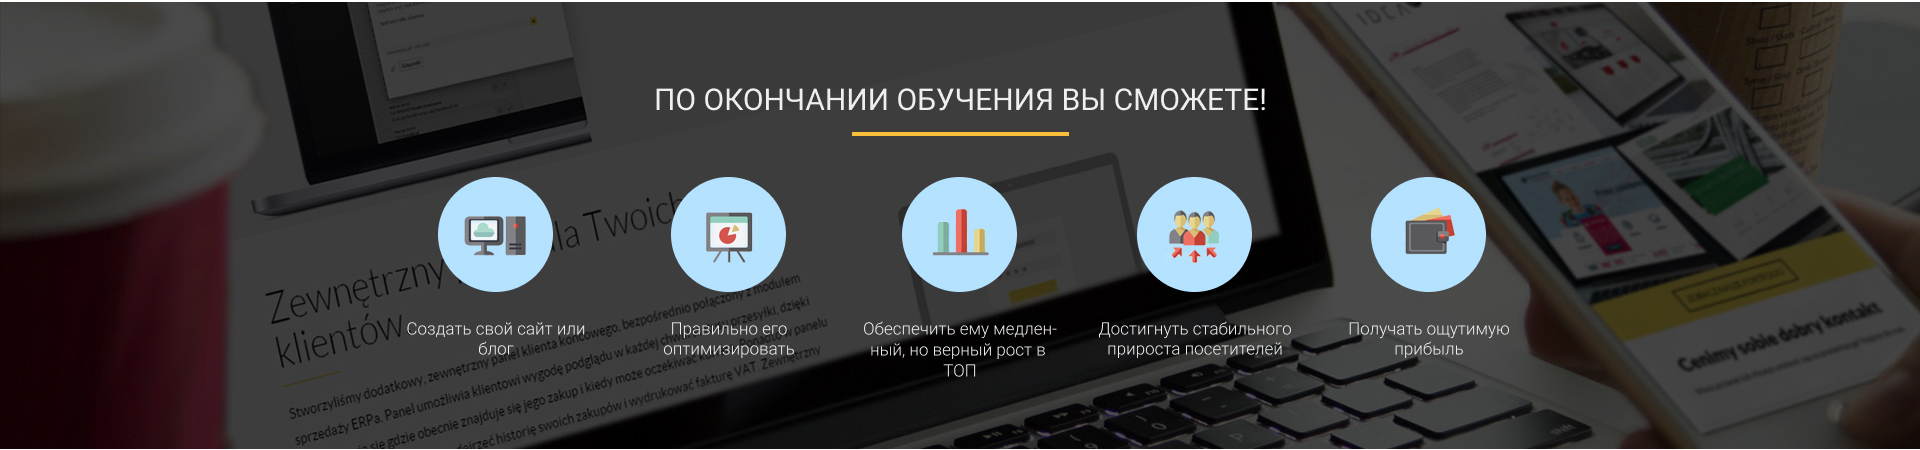
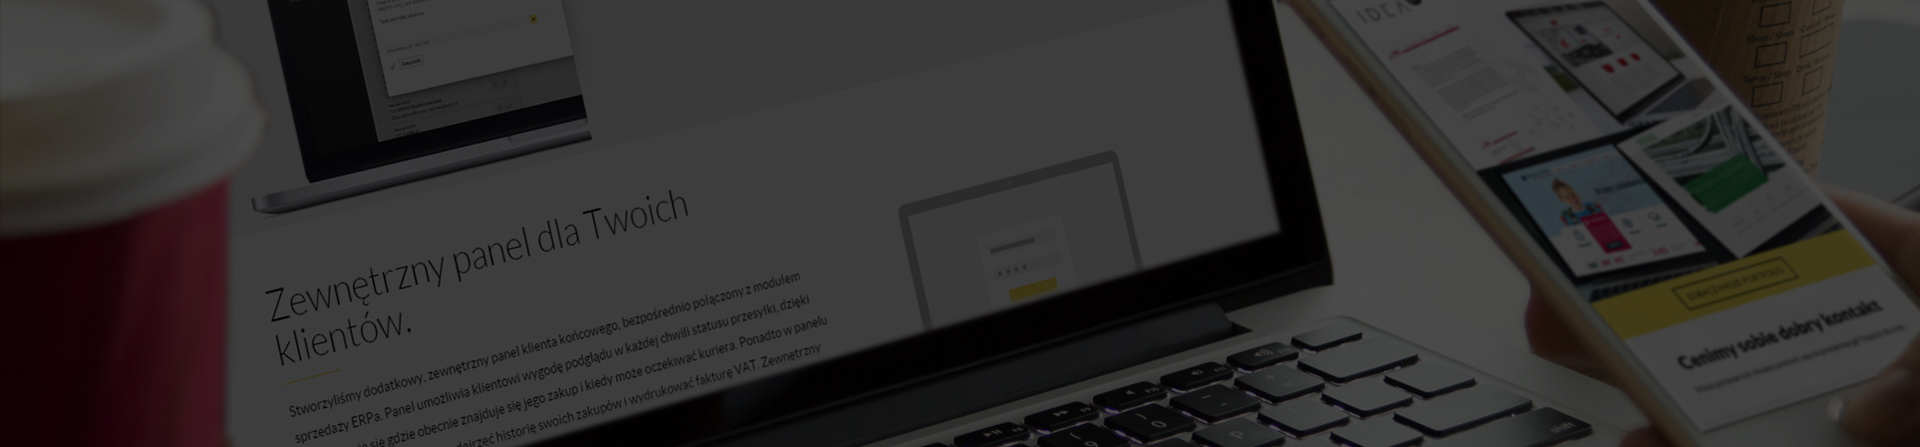
Учебный макет готов!!!
Вёрстка сайта закончена, макет был всёрстан на чистом Html and Css
Пока многое не понятно и есть что повторить 
Процесс идёт
Практика, Практика и ещё раз Практика  ;-)

diff --git a/index.html b/index.html
@@ -67,5 +67,113 @@
         </div>
       </div>
     </section>
+    <section class="optimization">
+      <div class="container">
+        <h2 class="optimization_header">
+          Что такое оптимизация и зачем она нужна?
+        </h2>
+        <div class="optimization_text">
+          На просторах интернета несчетное количество действующих и даже
+          заброшенных сайтов. Большинство из них совпадает не только по
+          категориям, но и по содержанию.
+          <br /><br />
+          Представьте себе тысячи сайтов, на которых тем или иным образом
+          предоставляется одна и та же информация или продается одна и та же
+          услуга. И попасть на эти сайты можно лишь по тематическим запросам в
+          поисковых системах.
+          <br /><br />
+          Но как вам быть, если ваш сайт похож на сотню или тысячу таких же, а
+          на одной странице гугла или яндекса всего 10 позиций? Как привести
+          посетителей страницы своего ресурса? Именно для этого и нужна
+          оптимизация – для вывода вашего сайта на первую страницу поиска!
+          <br /><br />
+          <span
+            >Мы научим вас, как сделать ваш сайт привлекательным для поисковых
+            систем и посоветуем, как вывести его на первые страницы, обходя всех
+            конкурентов.</span
+          >
+        </div>
+        <img src="img/bg/woman_bg.jpg" alt="woman" class="optimization_img" />
+      </div>
+    </section>
+    <section class="finish">
+      <div class="container">
+        <h2 class="finish_header">По окончании обучения Вы сможете!</h2>
+        <div class="finish_divider"></div>
+        <div class="finish_wrapper">
+          <div class="finish_item">
+            <div class="finish_round">
+              <img src="icons/finish/1.png" alt="1" class="finish_icon" />
+            </div>
+            <div class="finish_descr">Создать свой сайт или блог</div>
+          </div>
+          <div class="finish_item">
+            <div class="finish_round">
+              <img src="icons/finish/2.png" alt="2" class="finish_icon" />
+            </div>
+            <div class="finish_descr">Правильно его оптимизировать</div>
+          </div>
+          <div class="finish_item">
+            <div class="finish_round">
+              <img src="icons/finish/3.png" alt="3" class="finish_icon" />
+            </div>
+            <div class="finish_descr">
+              Обеспечить ему медлен- ный, но верный рост в ТОП
+            </div>
+          </div>
+          <div class="finish_item">
+            <div class="finish_round">
+              <img src="icons/finish/4.png" alt="4" class="finish_icon" />
+            </div>
+            <div class="finish_descr">
+              Достигнуть стабильного прироста посетителей
+            </div>
+          </div>
+          <div class="finish_item">
+            <div class="finish_round">
+              <img src="icons/finish/5.png" alt="5" class="finish_icon" />
+            </div>
+            <div class="finish_descr">Получать ощутимую прибыль</div>
+          </div>
+        </div>
+      </div>
+    </section>
+    <section class="gift">
+      <div class="container">
+        <img src="icons/gift.png" alt="" class="gift_item" />
+        <div class="gift_text">
+          Для всех участников интенсива предусмотрены бонусы и подарки.
+          Нажимайте на кнопку ниже, принимайте участие в вебинарах и забирайте
+          свой приз по окончании обучения!
+        </div>
+        <button class="gift_btn">Записаться на интенсив!</button>
+      </div>
+    </section>
+    <section class="webinar">
+      <div class="container">
+        <img
+          src="img/first_webinar/first_webinar.png"
+          alt="webinar"
+          class="webinar-img"
+        />
+        <h2 class="webinar_header">Первый вебинар состоится:</h2>
+        <div class="webinar_date">10 сентября в 20:00 по Москве</div>
+        <p class="webinar_text">
+          Успейте записаться, количество мест ограничено!
+        </p>
+      </div>
+    </section>
+    <footer class="footer">
+      <div class="container">
+        <a href="#" class="footer_feedback"
+          >Служба поддержки | Политика конфиденциальности
+        </a>
+        <div class="footer_call">
+          <a href="tel:88005550121" class="phone"
+            >Позвоните нам 8-800-555-01-21</a
+          >
+        </div>
+      </div>
+    </footer>
   </body>
 </html>

diff --git a/css/style.css b/css/style.css
@@ -5,6 +5,7 @@
 }
 
 .container {
+  position: relative;
   width: 1140px;
   margin: 0 auto;
 }
@@ -67,7 +68,7 @@ h2.title {
   font-family: "Roboto - Bold";
   font-weight: 700;
 }
-.promo .promo_btn {
+.promo .promo_btn, .gift .gift_btn {
   display: block;
   margin: 0px auto;
   margin-top: 73px;
@@ -103,11 +104,11 @@ h2.title {
   margin-top: 13px;
 }
 .waiting {
-  height: 604px;
+  min-height: 604px;
   background: #EFEFEF;
   padding: 85px 0 75px 0;
 }
-.waiting .waiting_header {
+.waiting .waiting_header, .finish .finish_header {
   color: #252525;
   font-family: 'Roboto';
   font-size: 30px;
@@ -115,7 +116,10 @@ h2.title {
   text-transform: uppercase;
   text-align: center;
 }
-.waiting .waiting_divider {
+.finish .finish_header {
+  color: #EFEFEF;
+}
+.waiting .waiting_divider, .finish .finish_divider {
   width: 217px;
   height: 4px;
   background-color: #F9BF3B;
@@ -130,12 +134,11 @@ h2.title {
   text-align: center;
 }
 .waiting .waiting_wrapper {
+  display: flex;
+  justify-content: space-between; 
   margin-top: 45px;
 }
 .waiting .waiting_wrapper .waiting_item {
-  display: inline-block;
-  vertical-align: top;
-  margin: 0 15px;
   width: 339px;
   text-align: center;
 }
@@ -150,6 +153,143 @@ h2.title {
   font-weight: 300;
   line-height: 21px;
 }
+.optimization {
+  min-height: 550px;
+  padding: 102px 0 107px 0;
+}
+.optimization .optimization_header {
+  margin-left: 391px;
+  color: #299CBD;
+  font-family: 'Roboto - Black';
+  font-size: 29px;
+
+  font-weight: 400;
+  text-transform: uppercase;
+}
+.optimization .optimization_text {
+  margin-top: 25px;
+  margin-left: 391px;
+  color: #4A4A4A;
+  font-size: 17px;
+  font-weight: 300;
+  line-height: 27px;
+  font-family: 'Roboto Light';
+  font-weight: 300;
+}
+.optimization .optimization_text span {
+  font-family: 'Roboto - Bold';
+  font-weight: 700;
+}
+.optimization .optimization_img {
+  position: absolute;
+  top: -54px;
+  left: -240px;
+  z-index: -1;
+}
+.finish {
+  min-height: 447px;
+  padding: 86px 0 79px 0;
+  background: url('../img/bg/second_bg.jpg') center center/cover no-repeat;
+}
+.finish .finish_wrapper {
+  margin-top: 41px;
+  display: flex;
+  justify-content: space-between;
+}
+.finish .finish_wrapper .finish_item {
+  width: 204px;
+}
+.finish .finish_wrapper .finish_item .finish_round {
+  display: flex;
+  justify-content: center;
+  align-items: center;
+  margin: 0 auto;
+  width: 115px;
+  height: 115px;
+  background-color: #B4E2FF;
+  border-radius: 100%;
+}
+.finish .finish_wrapper .finish_item .finish_descr {
+  margin-top: 25p;
+  text-align: center;
+  color: #EFEFEF;
+  font-family: 'Roboto';
+  font-size: 17px;
+  font-weight: 300;
+  line-height: 20px;
+}
+.gift {
+  min-height: 631px;
+  background: #EFEFEF;
+  padding: 88px 0;
+}
+.gift .gift_item {
+  display: block;
+  margin: 0 auto;
+}
+.gift .gift_text {
+  margin-top: 45px;
+  color: #252525;
+  font-family: 'Roboto';
+  font-size: 30px;
+  font-weight: 400;
+  line-height: 43px;
+  text-align: center;
+}
+.webinar {
+  min-height: 433px;
+  margin: 81px 0;
+  background: rgba(0, 0, 0, 0.0001);
+  text-align: center;
+}
+.webinar .webinar_header {
+  margin-top: 36px;
+  color: #252525;
+  font-family: 'Roboto';
+  font-size: 30px;
+  font-weight: 400;
+  line-height: 30px;
+  text-transform: uppercase;
+}
+.webinar .webinar_date {
+  margin-top: 30px;
+  color: #299CBD;
+  font-family: 'Roboto';
+  font-size: 36px;
+  font-weight: 900;
+  line-height: 36px;
+  text-transform: uppercase;
+}
+.webinar .webinar_text {
+  margin-top: 25px;
+  color: #4A4A4A;
+  font-family: 'Roboto';
+  font-size: 23px;
+  font-weight: 400;
+  line-height: 20px;
+}
+.footer {
+  min-height: 169px;
+  background: #1A1A1A;
+  text-align: center;
+}
+.footer_feedback {
+  display: inline-block;
+  color: #888888;
+  margin-top: 56px;
+  font-family: 'Roboto';
+  font-size: 15px;
+  font-weight: 300;
+  line-height: 21px;
+  cursor: pointer;
+}
+.footer .footer_call .phone {
+  color: #888888;
+  text-decoration: none;
+}
+
+
+
 
 
 
